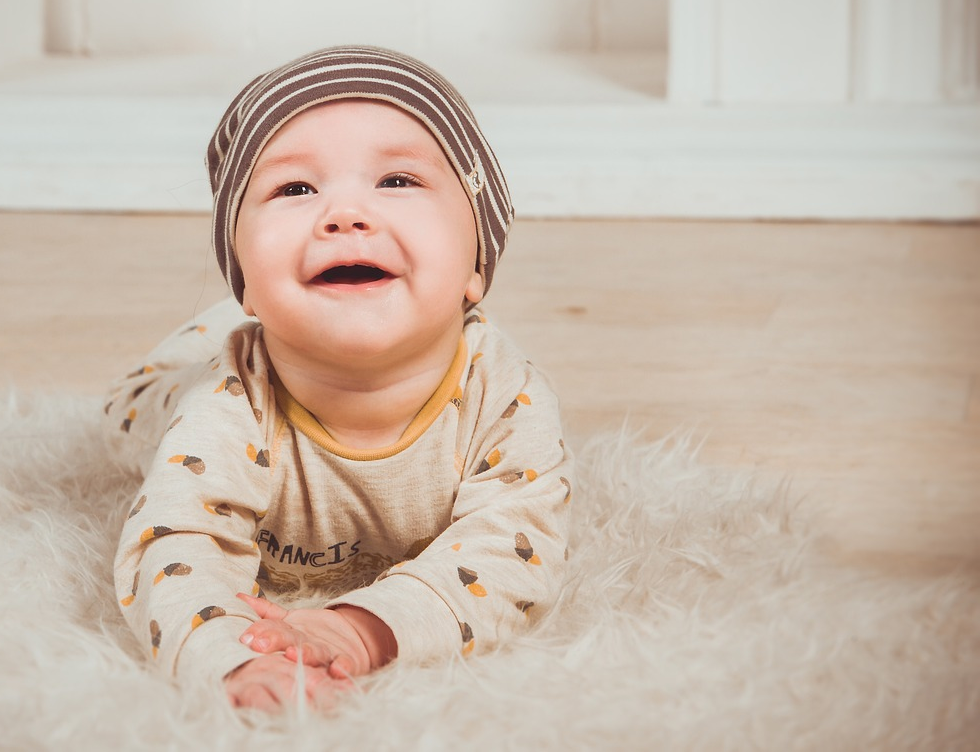
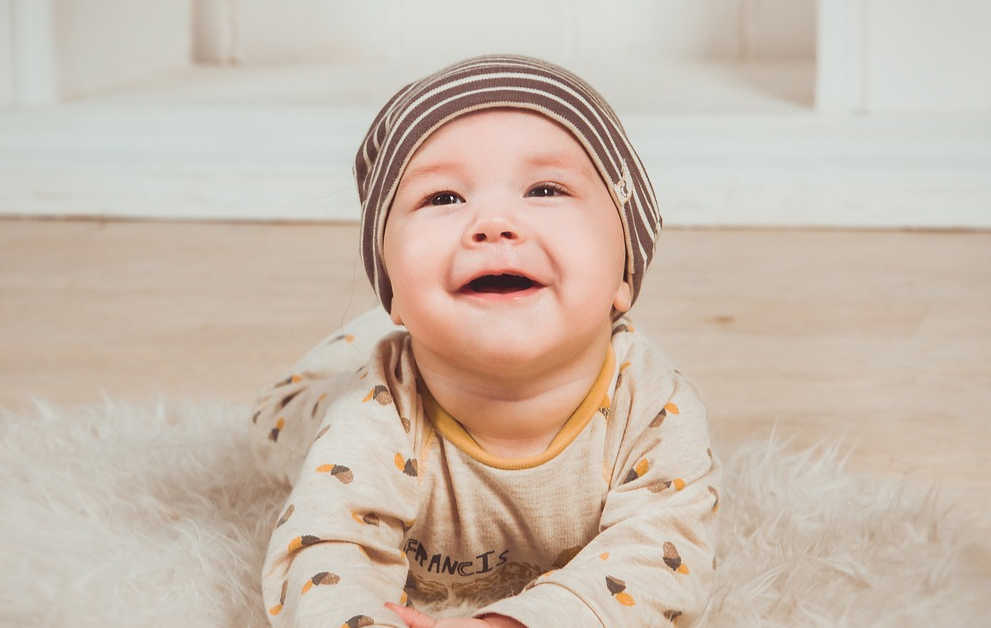
mudanças imagem home e gradiente no menu

diff --git a/main.js b/main.js
@@ -77,19 +77,19 @@ function updateBackground() {
     if (h1Element) {
       switch (h1Element.textContent.trim()) {
         case 'Masculinas:':
-          corDeFundo = '#F4E7FF';
+          corDeFundo = '#f1f1f1';
           corTitulo = '#0000FF'; // Azul
           break;
         case 'Femininas:':
-          corDeFundo = '#F4E7FF';
+          corDeFundo = '#f1f1f1';
           corTitulo = '#D81B60'; // Rosa escuro
           break;
         case 'Unissex:':
-          corDeFundo = '#F4E7FF';
+          corDeFundo = '#f1f1f1';
           corTitulo = '#FFA000'; // Amarelo profundo
           break;
         default:
-          corDeFundo = '#F4E7FF'; // Cor padrão para conteúdo não especificado
+          corDeFundo = '#f1f1f1'; // Cor padrão para conteúdo não especificado
           corTitulo = '#000000'; // Cor padrão para título não especificado (preto)
       }
 

diff --git a/css/style.css b/css/style.css
@@ -331,16 +331,19 @@ header label span:nth-child(3) {
 
 #home {
     background-image: url(../img/imagembebêolhandocima.png);
-    padding: 5rem;
-    -webkit-background-size: cover;
-    -moz-background-size: cover;
-    -o-background-size: cover;
+    background-repeat: no-repeat;
     background-size: cover;
+    background-position-x: center; /* Centraliza horizontalmente */
+    background-position-y: top;
+    padding: 5rem;
     position: relative;
     justify-content: center;
     align-items: center;
     display: flex;
+
 }
+
+
 
 .overlay {
     background: linear-gradient(180deg, var(--blue-color) 0%, var(--pink-color) 100%);

diff --git a/css/styleCatalogo.css b/css/styleCatalogo.css
@@ -89,7 +89,8 @@ header nav .icon_home img {
 }
 
 header nav .menu {
-  margin-left: 10px;
+  mask-image: linear-gradient(to right, rgba(0, 0, 0, 0), black 40px, black calc(100% - 40px), rgba(0, 0, 0, 0));
+  -webkit-mask-image: linear-gradient(to right, transparent, black 40px, black calc(100% - 40px), transparent);
   display: flex;
   width: 60%;
   height: 70px;
@@ -531,6 +532,7 @@ header label span:nth-child(3) {
 
 /* Estilo padrão para a barra de pesquisa */
 #searchInput {
+  margin-right: 15px;
   width: 10%;
   padding: 10px;
   border: 1px solid #ccc;
